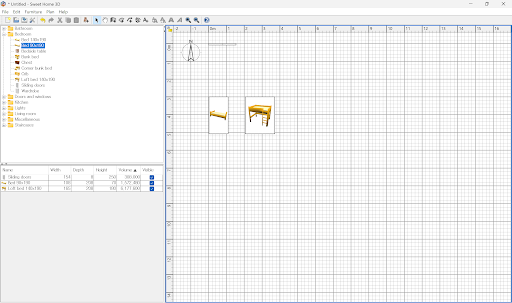
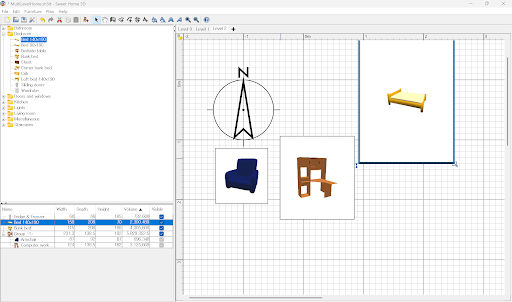
Modified task3

diff --git a/SweetHome3D/src/com/eteks/sweethome3d/swing/HomePane.java b/SweetHome3D/src/com/eteks/sweethome3d/swing/HomePane.java
@@ -355,6 +355,8 @@ public class HomePane extends JRootPane implements HomeView {
         furnitureController, "toggleFurnitureSort", HomePieceOfFurniture.SortableProperty.DEPTH);
     createAction(ActionType.SORT_HOME_FURNITURE_BY_HEIGHT, preferences, 
         furnitureController, "toggleFurnitureSort", HomePieceOfFurniture.SortableProperty.HEIGHT);
+    createAction(ActionType.SORT_HOME_FURNITURE_BY_VOLUME, preferences,
+            furnitureController, "toggleFurnitureSort", HomePieceOfFurniture.SortableProperty.VOLUME);
     createAction(ActionType.SORT_HOME_FURNITURE_BY_X, preferences, 
         furnitureController, "toggleFurnitureSort", HomePieceOfFurniture.SortableProperty.X);
     createAction(ActionType.SORT_HOME_FURNITURE_BY_Y, preferences, 
@@ -395,6 +397,8 @@ public class HomePane extends JRootPane implements HomeView {
         furnitureController, "toggleFurnitureVisibleProperty", HomePieceOfFurniture.SortableProperty.DEPTH);
     createAction(ActionType.DISPLAY_HOME_FURNITURE_HEIGHT, preferences, 
         furnitureController, "toggleFurnitureVisibleProperty", HomePieceOfFurniture.SortableProperty.HEIGHT);
+    createAction(ActionType.DISPLAY_HOME_FURNITURE_VOLUME, preferences,
+            furnitureController, "toggleFurnitureVisibleProperty", HomePieceOfFurniture.SortableProperty.VOLUME);
     createAction(ActionType.DISPLAY_HOME_FURNITURE_X, preferences, 
         furnitureController, "toggleFurnitureVisibleProperty", HomePieceOfFurniture.SortableProperty.X);
     createAction(ActionType.DISPLAY_HOME_FURNITURE_Y, preferences, 
@@ -1322,8 +1326,10 @@ public class HomePane extends JRootPane implements HomeView {
         sortActions, HomePieceOfFurniture.SortableProperty.WIDTH);
     addActionToMap(ActionType.SORT_HOME_FURNITURE_BY_DEPTH, 
         sortActions, HomePieceOfFurniture.SortableProperty.DEPTH);
-    addActionToMap(ActionType.SORT_HOME_FURNITURE_BY_HEIGHT, 
+    addActionToMap(ActionType.SORT_HOME_FURNITURE_BY_HEIGHT,
         sortActions, HomePieceOfFurniture.SortableProperty.HEIGHT);
+    addActionToMap(ActionType.SORT_HOME_FURNITURE_BY_VOLUME,
+            sortActions, HomePieceOfFurniture.SortableProperty.VOLUME);
     addActionToMap(ActionType.SORT_HOME_FURNITURE_BY_X, 
         sortActions, HomePieceOfFurniture.SortableProperty.X);
     addActionToMap(ActionType.SORT_HOME_FURNITURE_BY_Y, 
@@ -1427,6 +1433,8 @@ public class HomePane extends JRootPane implements HomeView {
         displayPropertyActions, HomePieceOfFurniture.SortableProperty.DEPTH);
     addActionToMap(ActionType.DISPLAY_HOME_FURNITURE_HEIGHT, 
         displayPropertyActions, HomePieceOfFurniture.SortableProperty.HEIGHT);
+    addActionToMap(ActionType.DISPLAY_HOME_FURNITURE_VOLUME,
+            displayPropertyActions, HomePieceOfFurniture.SortableProperty.VOLUME);
     addActionToMap(ActionType.DISPLAY_HOME_FURNITURE_X, 
         displayPropertyActions, HomePieceOfFurniture.SortableProperty.X);
     addActionToMap(ActionType.DISPLAY_HOME_FURNITURE_Y, 
